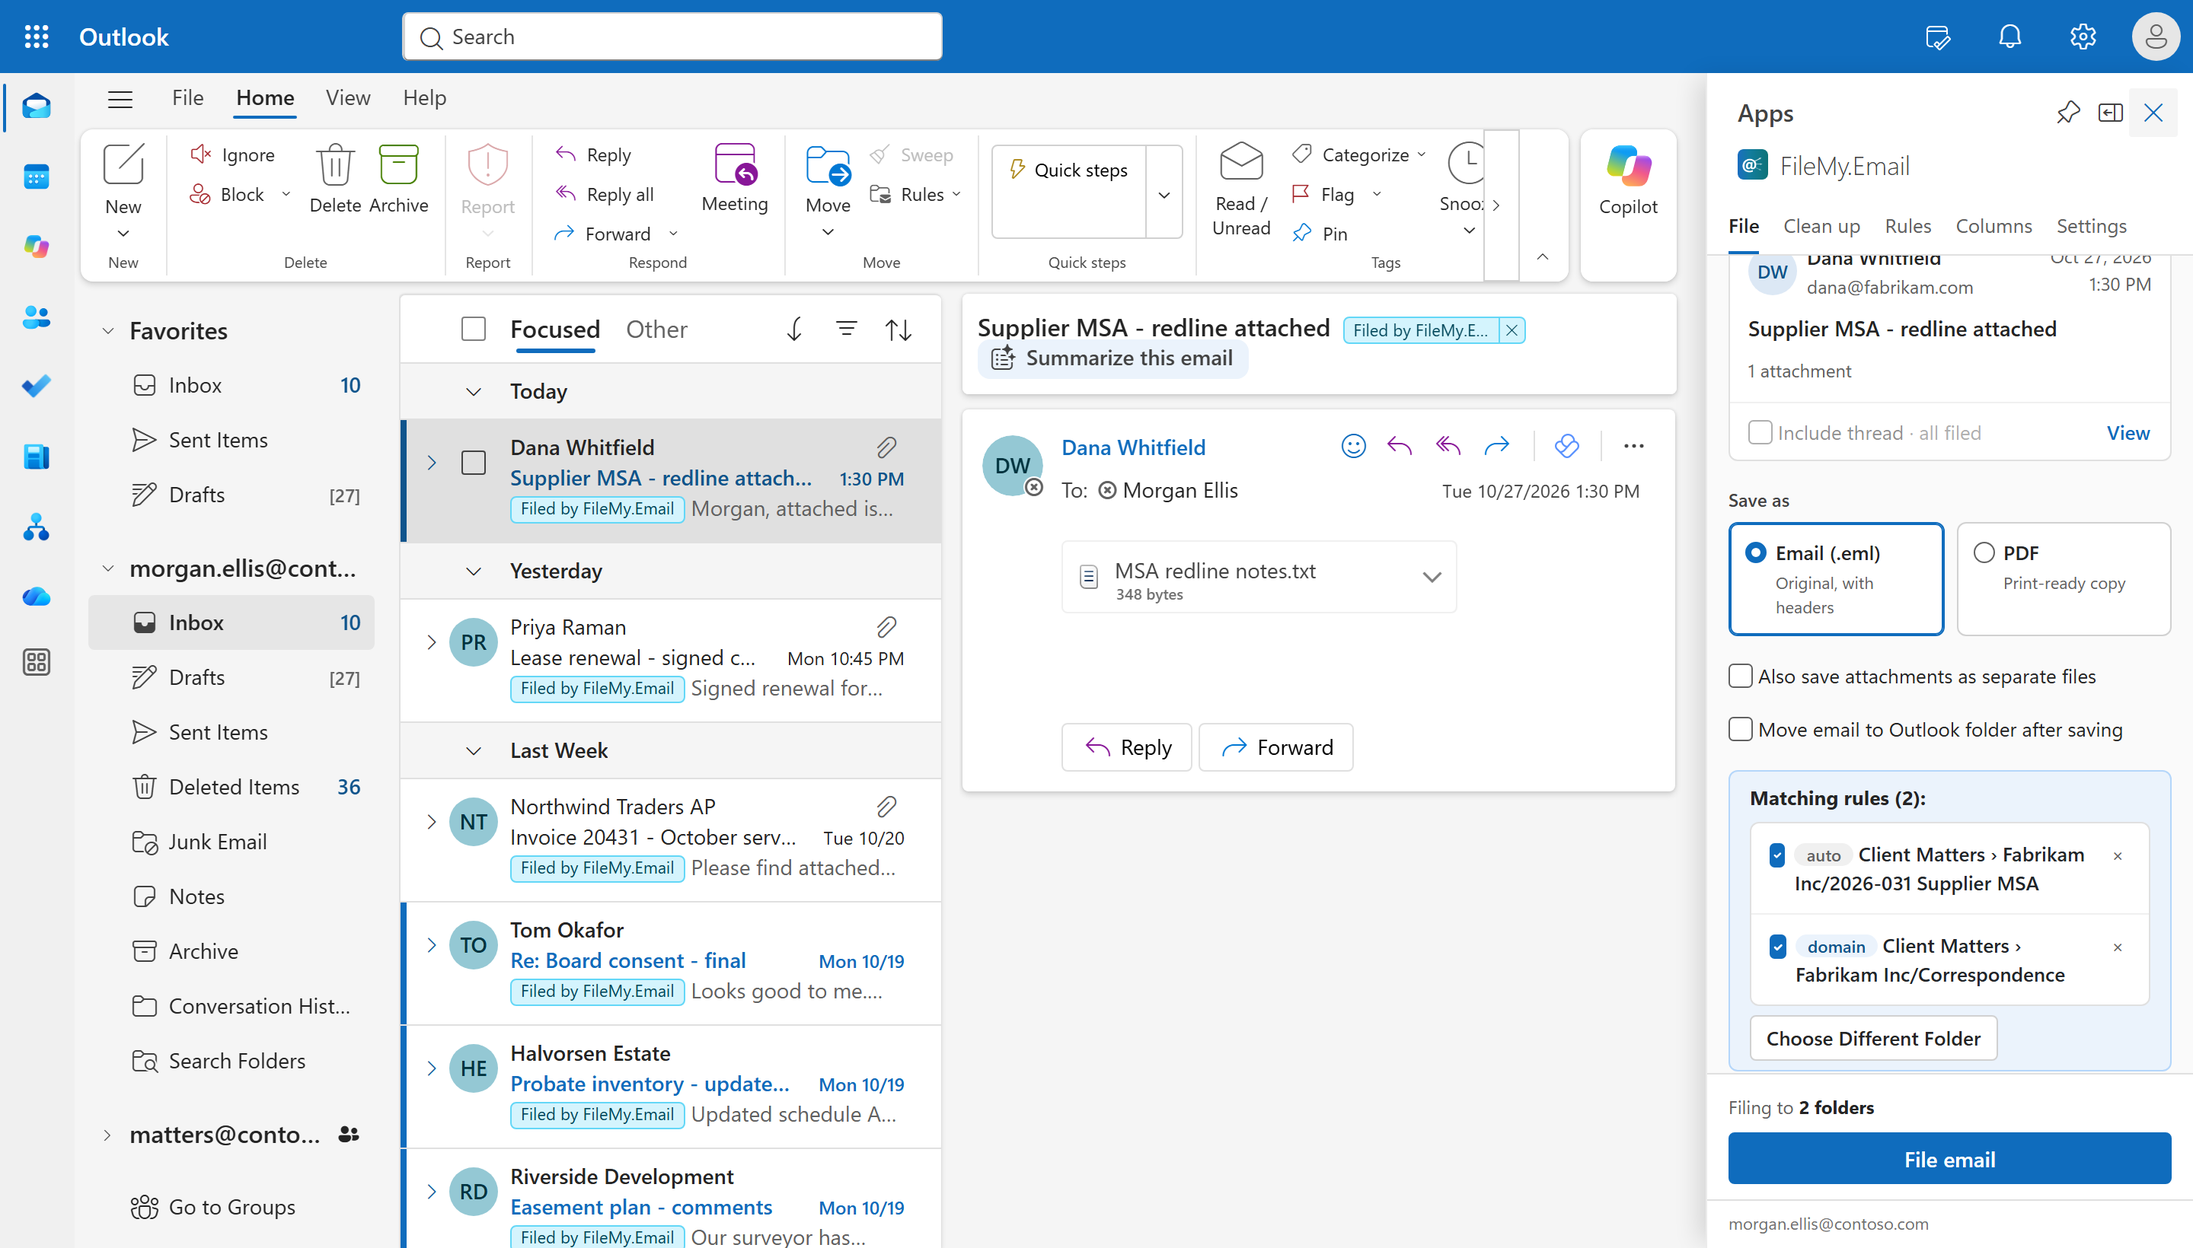
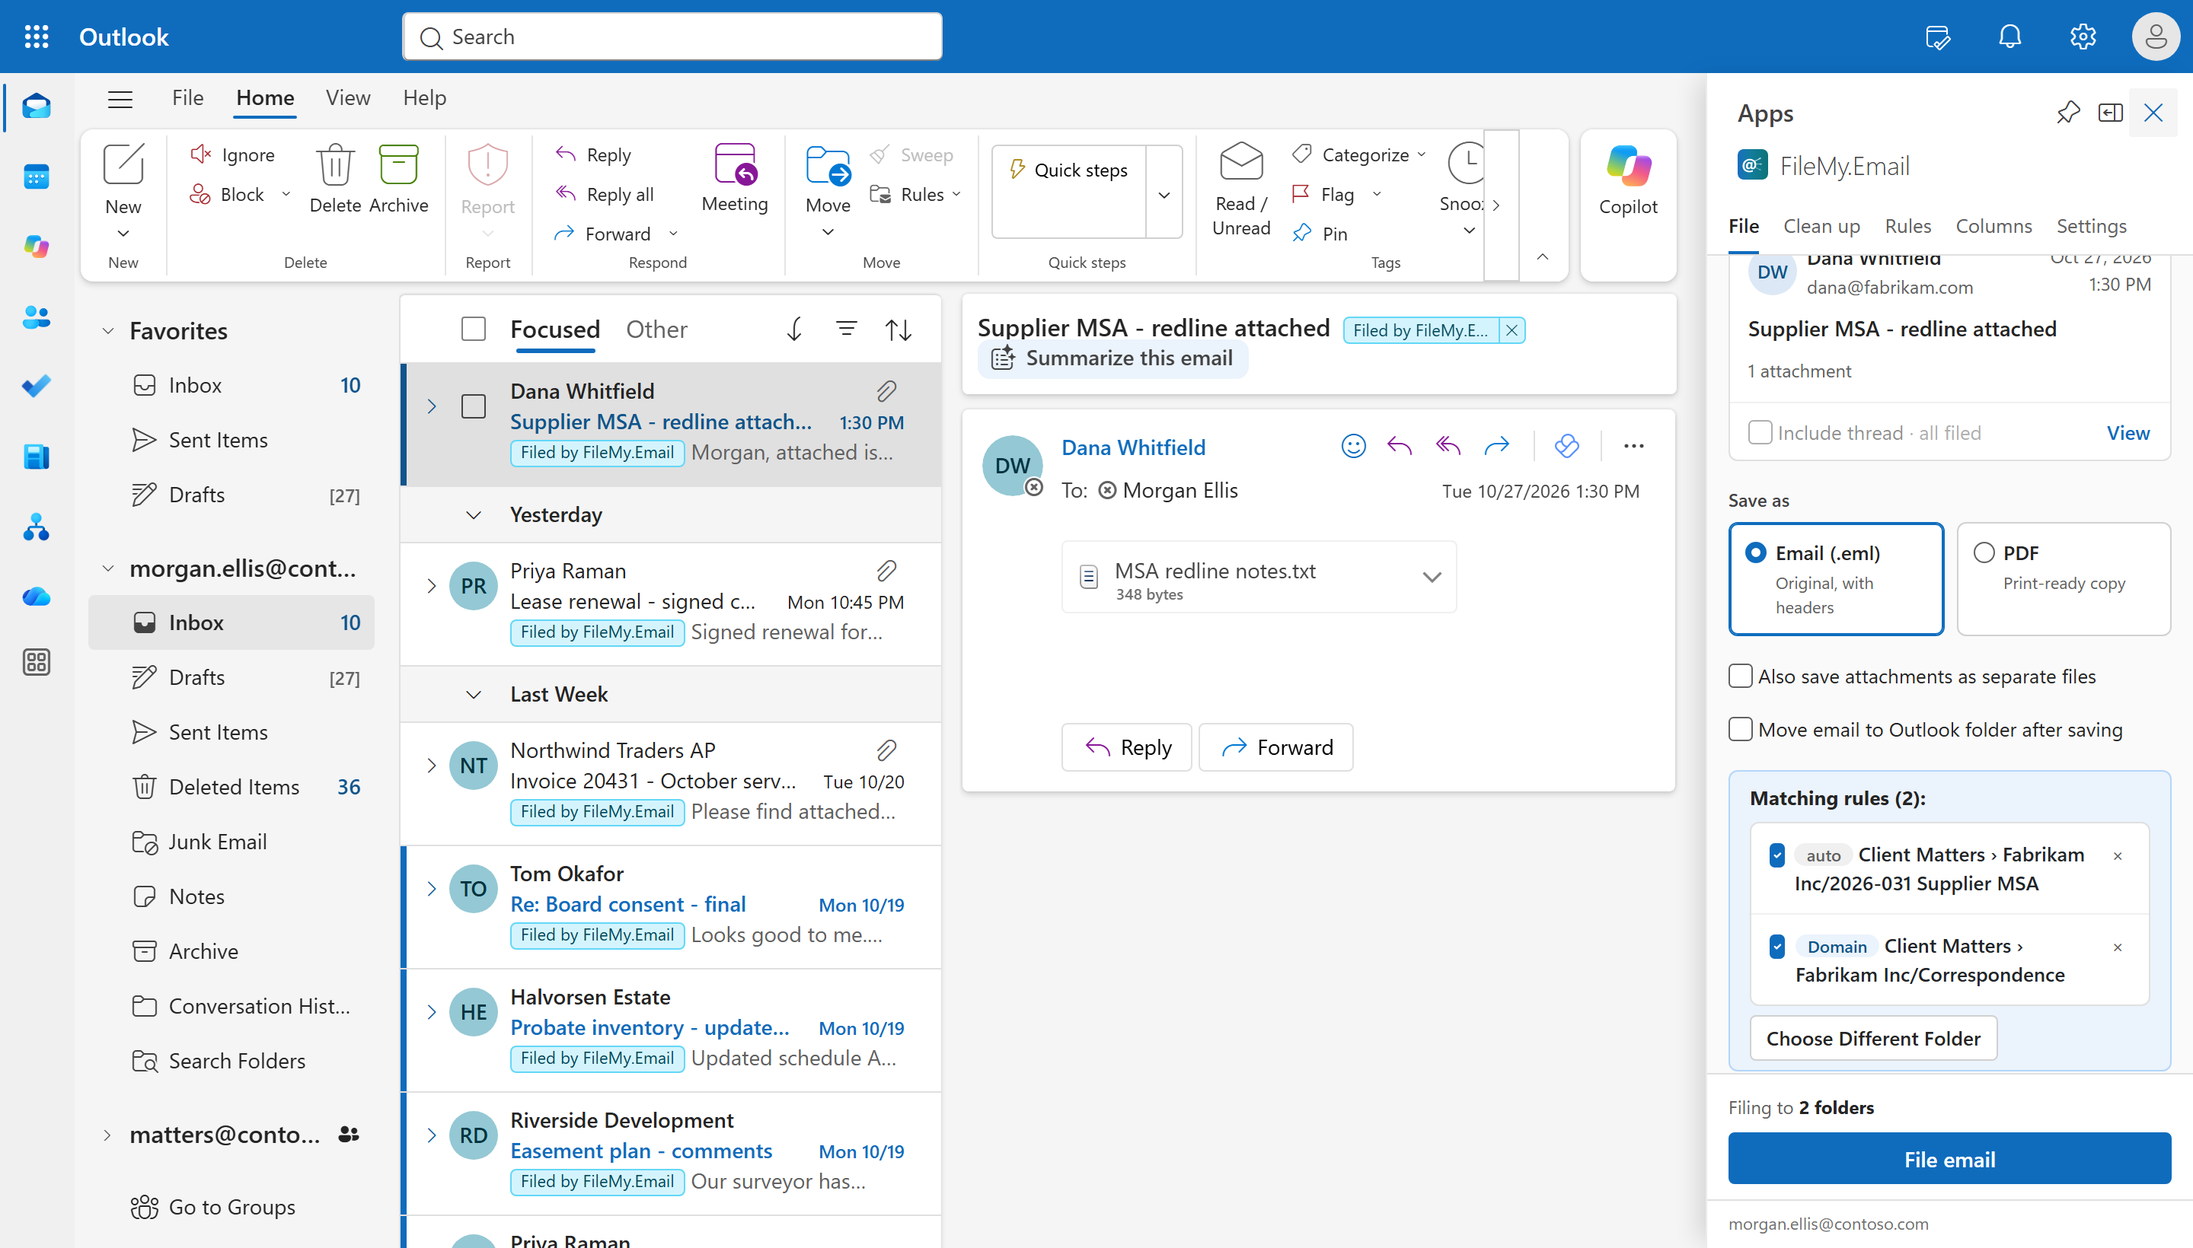
Call it the Clean up tab in the shared-mailbox answers (#10)
* Call it the Clean up tab in the shared-mailbox answers

The shared-mailbox answers that #8 added say "Inbox Cleanup", the pane's
name before the redesign. #9 renamed it everywhere else, but these lines
weren't on its branch when it was cut, so the old name went live beside
the new one on six pages.

Refs jcutrono/OutlookToSharepoint#277

* Re-shoot the product shot with the Domain badge production draws

The add-in's #300 changed a manual rule's badge on the File tab from
"domain" to "Domain". Same capture, same 2880x1640 size, so the pages'
width, height and og:image sizes stay as #9 set them.

Refs jcutrono/OutlookToSharepoint#277

---------

Changed region(s): [[0.1875, 0.311, 0.4062, 1.0], [0.8125, 0.7463, 0.9062, 0.7774]]

diff --git a/industries/legal.html b/industries/legal.html
@@ -82,7 +82,7 @@
                 "name": "Can paralegals file from a shared or delegate mailbox?",
                 "acceptedAnswer": {
                     "@type": "Answer",
-                    "text": "Yes. Open the email in the shared mailbox, or in an attorney's mailbox you have delegate access to, and file it from the FileMy.Email pane: the email, its attachments or the whole thread. Where you can edit that mailbox, the email is tagged Filed by FileMy.Email, so everyone who works in it can see it's been filed. Inbox Cleanup and Auto-Archive cover only your own mailbox. It works in Outlook on the web, the new Outlook for Windows, classic Outlook for Windows (version 2304 or later) and Outlook for Mac, but not in Outlook for iOS or Android. A Microsoft 365 admin approves one extra permission the first time anyone opens FileMy.Email on a message in a shared or delegate mailbox."
+                    "text": "Yes. Open the email in the shared mailbox, or in an attorney's mailbox you have delegate access to, and file it from the FileMy.Email pane: the email, its attachments or the whole thread. Where you can edit that mailbox, the email is tagged Filed by FileMy.Email, so everyone who works in it can see it's been filed. The Clean up tab and Auto-Archive cover only your own mailbox. It works in Outlook on the web, the new Outlook for Windows, classic Outlook for Windows (version 2304 or later) and Outlook for Mac, but not in Outlook for iOS or Android. A Microsoft 365 admin approves one extra permission the first time anyone opens FileMy.Email on a message in a shared or delegate mailbox."
                 }
             },
             {
@@ -264,7 +264,7 @@
             </div>
             <div class="faq-item">
                 <h3>Can paralegals file from a shared or delegate mailbox?</h3>
-                <p>Yes. Open the email in the shared mailbox, or in an attorney's mailbox you have delegate access to, and file it from the FileMy.Email pane: the email, its attachments or the whole thread. Where you can edit that mailbox, the email is tagged Filed by FileMy.Email, so everyone who works in it can see it's been filed. Inbox Cleanup and Auto-Archive cover only your own mailbox. It works in Outlook on the web, the new Outlook for Windows, classic Outlook for Windows (version 2304 or later) and Outlook for Mac, but not in Outlook for iOS or Android. A Microsoft 365 admin approves one extra permission the first time anyone opens FileMy.Email on a message in a shared or delegate mailbox.</p>
+                <p>Yes. Open the email in the shared mailbox, or in an attorney's mailbox you have delegate access to, and file it from the FileMy.Email pane: the email, its attachments or the whole thread. Where you can edit that mailbox, the email is tagged Filed by FileMy.Email, so everyone who works in it can see it's been filed. The Clean up tab and Auto-Archive cover only your own mailbox. It works in Outlook on the web, the new Outlook for Windows, classic Outlook for Windows (version 2304 or later) and Outlook for Mac, but not in Outlook for iOS or Android. A Microsoft 365 admin approves one extra permission the first time anyone opens FileMy.Email on a message in a shared or delegate mailbox.</p>
             </div>
             <div class="faq-item">
                 <h3>Are emails or attachments stored on your servers?</h3>

diff --git a/industries/accounting.html b/industries/accounting.html
@@ -98,7 +98,7 @@
                 "name": "Does it work with shared and delegate mailboxes?",
                 "acceptedAnswer": {
                     "@type": "Answer",
-                    "text": "Yes. Open the email in a shared mailbox, such as an admin@ intake mailbox, or in a mailbox you have delegate access to, and file it from the FileMy.Email pane: the email, its attachments or the whole thread. Each person files with their own seat; the shared mailbox needs none. Inbox Cleanup and Auto-Archive cover only your own mailbox. It works in Outlook on the web, the new Outlook for Windows, classic Outlook for Windows (version 2304 or later) and Outlook for Mac, but not in Outlook for iOS or Android. A Microsoft 365 admin approves one extra permission the first time anyone opens FileMy.Email on a message in a shared or delegate mailbox."
+                    "text": "Yes. Open the email in a shared mailbox, such as an admin@ intake mailbox, or in a mailbox you have delegate access to, and file it from the FileMy.Email pane: the email, its attachments or the whole thread. Each person files with their own seat; the shared mailbox needs none. The Clean up tab and Auto-Archive cover only your own mailbox. It works in Outlook on the web, the new Outlook for Windows, classic Outlook for Windows (version 2304 or later) and Outlook for Mac, but not in Outlook for iOS or Android. A Microsoft 365 admin approves one extra permission the first time anyone opens FileMy.Email on a message in a shared or delegate mailbox."
                 }
             }
         ]
@@ -280,7 +280,7 @@
             </div>
             <div class="faq-item">
                 <h3>Does it work with shared and delegate mailboxes?</h3>
-                <p>Yes. Open the email in a shared mailbox, such as an admin@ intake mailbox, or in a mailbox you have delegate access to, and file it from the FileMy.Email pane: the email, its attachments or the whole thread. Each person files with their own seat; the shared mailbox needs none. Inbox Cleanup and Auto-Archive cover only your own mailbox. It works in Outlook on the web, the new Outlook for Windows, classic Outlook for Windows (version 2304 or later) and Outlook for Mac, but not in Outlook for iOS or Android. A Microsoft 365 admin approves one extra permission the first time anyone opens FileMy.Email on a message in a shared or delegate mailbox.</p>
+                <p>Yes. Open the email in a shared mailbox, such as an admin@ intake mailbox, or in a mailbox you have delegate access to, and file it from the FileMy.Email pane: the email, its attachments or the whole thread. Each person files with their own seat; the shared mailbox needs none. The Clean up tab and Auto-Archive cover only your own mailbox. It works in Outlook on the web, the new Outlook for Windows, classic Outlook for Windows (version 2304 or later) and Outlook for Mac, but not in Outlook for iOS or Android. A Microsoft 365 admin approves one extra permission the first time anyone opens FileMy.Email on a message in a shared or delegate mailbox.</p>
             </div>
         </section>
 

diff --git a/industries/property-management.html b/industries/property-management.html
@@ -82,7 +82,7 @@
                 "name": "What about shared inboxes like leasing@ or maintenance@?",
                 "acceptedAnswer": {
                     "@type": "Answer",
-                    "text": "Yes. Open the email in the shared mailbox, or in a mailbox you have delegate access to, and file it from the FileMy.Email pane, with its photos and attachments, to the property's folder. Each person files with their own seat; the shared inbox needs none. Inbox Cleanup and Auto-Archive cover only your own mailbox. It works in Outlook on the web, the new Outlook for Windows, classic Outlook for Windows (version 2304 or later) and Outlook for Mac. A Microsoft 365 admin approves one extra permission the first time anyone opens FileMy.Email on a message in a shared or delegate mailbox."
+                    "text": "Yes. Open the email in the shared mailbox, or in a mailbox you have delegate access to, and file it from the FileMy.Email pane, with its photos and attachments, to the property's folder. Each person files with their own seat; the shared inbox needs none. The Clean up tab and Auto-Archive cover only your own mailbox. It works in Outlook on the web, the new Outlook for Windows, classic Outlook for Windows (version 2304 or later) and Outlook for Mac. A Microsoft 365 admin approves one extra permission the first time anyone opens FileMy.Email on a message in a shared or delegate mailbox."
                 }
             },
             {
@@ -268,7 +268,7 @@
             </div>
             <div class="faq-item">
                 <h3>What about leasing@ or maintenance@ shared inboxes?</h3>
-                <p>Yes. Open the email in the shared mailbox, or in a mailbox you have delegate access to, and file it from the FileMy.Email pane, with its photos and attachments, to the property's folder. Each person files with their own seat; the shared inbox needs none. Inbox Cleanup and Auto-Archive cover only your own mailbox. It works in Outlook on the web, the new Outlook for Windows, classic Outlook for Windows (version 2304 or later) and Outlook for Mac. A Microsoft 365 admin approves one extra permission the first time anyone opens FileMy.Email on a message in a shared or delegate mailbox.</p>
+                <p>Yes. Open the email in the shared mailbox, or in a mailbox you have delegate access to, and file it from the FileMy.Email pane, with its photos and attachments, to the property's folder. Each person files with their own seat; the shared inbox needs none. The Clean up tab and Auto-Archive cover only your own mailbox. It works in Outlook on the web, the new Outlook for Windows, classic Outlook for Windows (version 2304 or later) and Outlook for Mac. A Microsoft 365 admin approves one extra permission the first time anyone opens FileMy.Email on a message in a shared or delegate mailbox.</p>
             </div>
             <div class="faq-item">
                 <h3>Can I save vendor invoices with metadata for accounting?</h3>

diff --git a/use-cases/save-outlook-email-to-sharepoint.html b/use-cases/save-outlook-email-to-sharepoint.html
@@ -102,7 +102,7 @@
                 "name": "Can I use it with shared and delegate mailboxes?",
                 "acceptedAnswer": {
                     "@type": "Answer",
-                    "text": "Yes, from the FileMy.Email pane. Open the email in a shared mailbox, or in a mailbox you have delegate access to, and save it, its attachments or its whole thread to SharePoint or OneDrive. Inbox Cleanup and Auto-Archive cover only your own mailbox. It works in Outlook on the web, the new Outlook for Windows, classic Outlook for Windows (version 2304 or later) and Outlook for Mac, but not in Outlook for iOS or Android. A Microsoft 365 admin approves one extra permission the first time anyone opens FileMy.Email on a message in a shared or delegate mailbox."
+                    "text": "Yes, from the FileMy.Email pane. Open the email in a shared mailbox, or in a mailbox you have delegate access to, and save it, its attachments or its whole thread to SharePoint or OneDrive. The Clean up tab and Auto-Archive cover only your own mailbox. It works in Outlook on the web, the new Outlook for Windows, classic Outlook for Windows (version 2304 or later) and Outlook for Mac, but not in Outlook for iOS or Android. A Microsoft 365 admin approves one extra permission the first time anyone opens FileMy.Email on a message in a shared or delegate mailbox."
                 }
             }
         ]
@@ -309,7 +309,7 @@
             </div>
             <div class="faq-item">
                 <h3>Can I use it with shared and delegate mailboxes?</h3>
-                <p>Yes, from the FileMy.Email pane. Open the email in a shared mailbox, or in a mailbox you have delegate access to, and save it, its attachments or its whole thread to SharePoint or OneDrive. Inbox Cleanup and Auto-Archive cover only your own mailbox. It works in Outlook on the web, the new Outlook for Windows, classic Outlook for Windows (version 2304 or later) and Outlook for Mac, but not in Outlook for iOS or Android. A Microsoft 365 admin approves one extra permission the first time anyone opens FileMy.Email on a message in a shared or delegate mailbox.</p>
+                <p>Yes, from the FileMy.Email pane. Open the email in a shared mailbox, or in a mailbox you have delegate access to, and save it, its attachments or its whole thread to SharePoint or OneDrive. The Clean up tab and Auto-Archive cover only your own mailbox. It works in Outlook on the web, the new Outlook for Windows, classic Outlook for Windows (version 2304 or later) and Outlook for Mac, but not in Outlook for iOS or Android. A Microsoft 365 admin approves one extra permission the first time anyone opens FileMy.Email on a message in a shared or delegate mailbox.</p>
             </div>
         </section>
 

diff --git a/use-cases/outlook-attachments-to-sharepoint.html b/use-cases/outlook-attachments-to-sharepoint.html
@@ -99,7 +99,7 @@
                 "name": "Can I save attachments from a shared mailbox?",
                 "acceptedAnswer": {
                     "@type": "Answer",
-                    "text": "Yes. Open the email in a shared mailbox, such as an ap@ invoices mailbox, or in a mailbox you have delegate access to, and save its attachments from the FileMy.Email pane. Inbox Cleanup and Auto-Archive cover only your own mailbox. It works in Outlook on the web, the new Outlook for Windows, classic Outlook for Windows (version 2304 or later) and Outlook for Mac, but not in Outlook for iOS or Android. A Microsoft 365 admin approves one extra permission the first time anyone opens FileMy.Email on a message in a shared or delegate mailbox."
+                    "text": "Yes. Open the email in a shared mailbox, such as an ap@ invoices mailbox, or in a mailbox you have delegate access to, and save its attachments from the FileMy.Email pane. The Clean up tab and Auto-Archive cover only your own mailbox. It works in Outlook on the web, the new Outlook for Windows, classic Outlook for Windows (version 2304 or later) and Outlook for Mac, but not in Outlook for iOS or Android. A Microsoft 365 admin approves one extra permission the first time anyone opens FileMy.Email on a message in a shared or delegate mailbox."
                 }
             }
         ]
@@ -287,7 +287,7 @@
             </div>
             <div class="faq-item">
                 <h3>Can I save attachments from a shared mailbox?</h3>
-                <p>Yes. Open the email in a shared mailbox, such as an ap@ invoices mailbox, or in a mailbox you have delegate access to, and save its attachments from the FileMy.Email pane. Inbox Cleanup and Auto-Archive cover only your own mailbox. It works in Outlook on the web, the new Outlook for Windows, classic Outlook for Windows (version 2304 or later) and Outlook for Mac, but not in Outlook for iOS or Android. A Microsoft 365 admin approves one extra permission the first time anyone opens FileMy.Email on a message in a shared or delegate mailbox.</p>
+                <p>Yes. Open the email in a shared mailbox, such as an ap@ invoices mailbox, or in a mailbox you have delegate access to, and save its attachments from the FileMy.Email pane. The Clean up tab and Auto-Archive cover only your own mailbox. It works in Outlook on the web, the new Outlook for Windows, classic Outlook for Windows (version 2304 or later) and Outlook for Mac, but not in Outlook for iOS or Android. A Microsoft 365 admin approves one extra permission the first time anyone opens FileMy.Email on a message in a shared or delegate mailbox.</p>
             </div>
         </section>
 

diff --git a/setup.html b/setup.html
@@ -278,7 +278,7 @@
 
         <h2>Optional: Shared and delegate mailboxes</h2>
         <p>Users can file a message from a shared mailbox, or from a mailbox shared with them as a delegate, the same way they file their own: open the message and use the FileMy.Email pane. This needs one more delegated permission, <strong>Mail.ReadWrite.Shared</strong>, which lets the add-in read the message in that mailbox and tag it once it's filed. It's needed only for shared and delegate mailboxes, so the one-time consent doesn't include it. The first time anyone opens FileMy.Email on a message in a shared or delegate mailbox, the pane shows a one-click link for an admin to approve it. <a href="/entra-setup#shared-mailboxes">Entra ID Setup</a> says who can.</p>
-        <p class="step-detail">Inbox Cleanup and Auto-Archive cover only each user's own mailbox. Filing from shared mailboxes works in Outlook on the web, the new Outlook for Windows, classic Outlook for Windows (version 2304 or later) and Outlook for Mac.</p>
+        <p class="step-detail">The Clean up tab and Auto-Archive cover only each user's own mailbox. Filing from shared mailboxes works in Outlook on the web, the new Outlook for Windows, classic Outlook for Windows (version 2304 or later) and Outlook for Mac.</p>
 
         <h2>Need help?</h2>
         <p>Visit <a href="https://filemy.email">filemy.email</a>, <a href="#" onclick="revealEmail(event, this)">contact support</a>, or <a href="https://billing.stripe.com/p/login/28E6oJ78vcW0bY29dQak000">manage your subscription</a>.</p>
